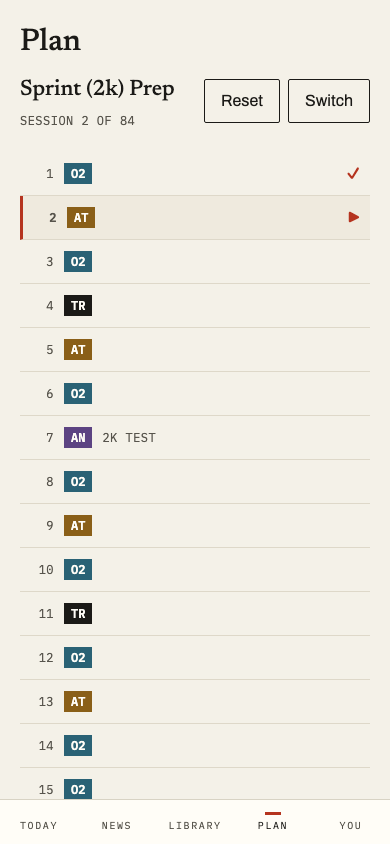
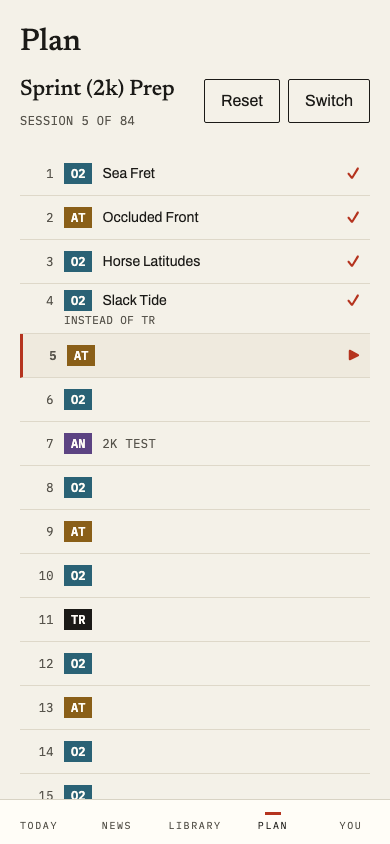
Regenerate plan-linked.png, and unpin the releases capture from v0.26.0
The plan capture now advances four real sessions instead of one, so the
committed visual record shows both halves of a done row: three named as
planned, and a fourth rowed as an O2 on a TR day carrying INSTEAD OF TR.

The releases capture was red on main. #232 corrected the version pins in
`news.spec.ts`, which CI's e2e job runs; this one lives in the
screenshots project, which no job runs, so it stayed at v0.26.0 and kept
`pnpm screenshots` failing. Same recurrence its own comment already
records from v0.18.0. Found while regenerating the plan capture.

The other 23 captures a `pnpm screenshots` run moved are the known
environmental drift in ROADMAP's open-item register, and are reverted
here rather than shipped as noise around the one real change.

Claude-Session: https://claude.ai/code/session_01Tug53SpxQ4PVXkTVHM8bZL

diff --git a/app/e2e/screenshots.spec.ts b/app/e2e/screenshots.spec.ts
@@ -1367,8 +1367,13 @@ test("releases", async ({ page }) => {
   // Bumped alongside each notes PR — #166 shipped the v0.18.0 entry
   // without bumping this pin, which broke `pnpm screenshots` on main
   // (caught 2026-08-23; e2e doesn't run this project, so nothing gated it).
+  // It recurred at v0.27.0: #232 corrected the pins in `news.spec.ts`
+  // (which CI's e2e job DOES run) and this one, in a project no job runs,
+  // stayed at v0.26.0 and kept `pnpm screenshots` red on main. Found here
+  // 2026-08-30 by an unrelated PR needing to regenerate a capture; fixed
+  // in passing rather than left for the next one to trip over.
   await expect(page.locator(".news-release-version").first()).toContainText(
-    "v0.26.0",
+    "v0.27.0",
   );
   await page.screenshot({
     path: path.join(SCREENSHOTS_DIR, "releases.png"),
